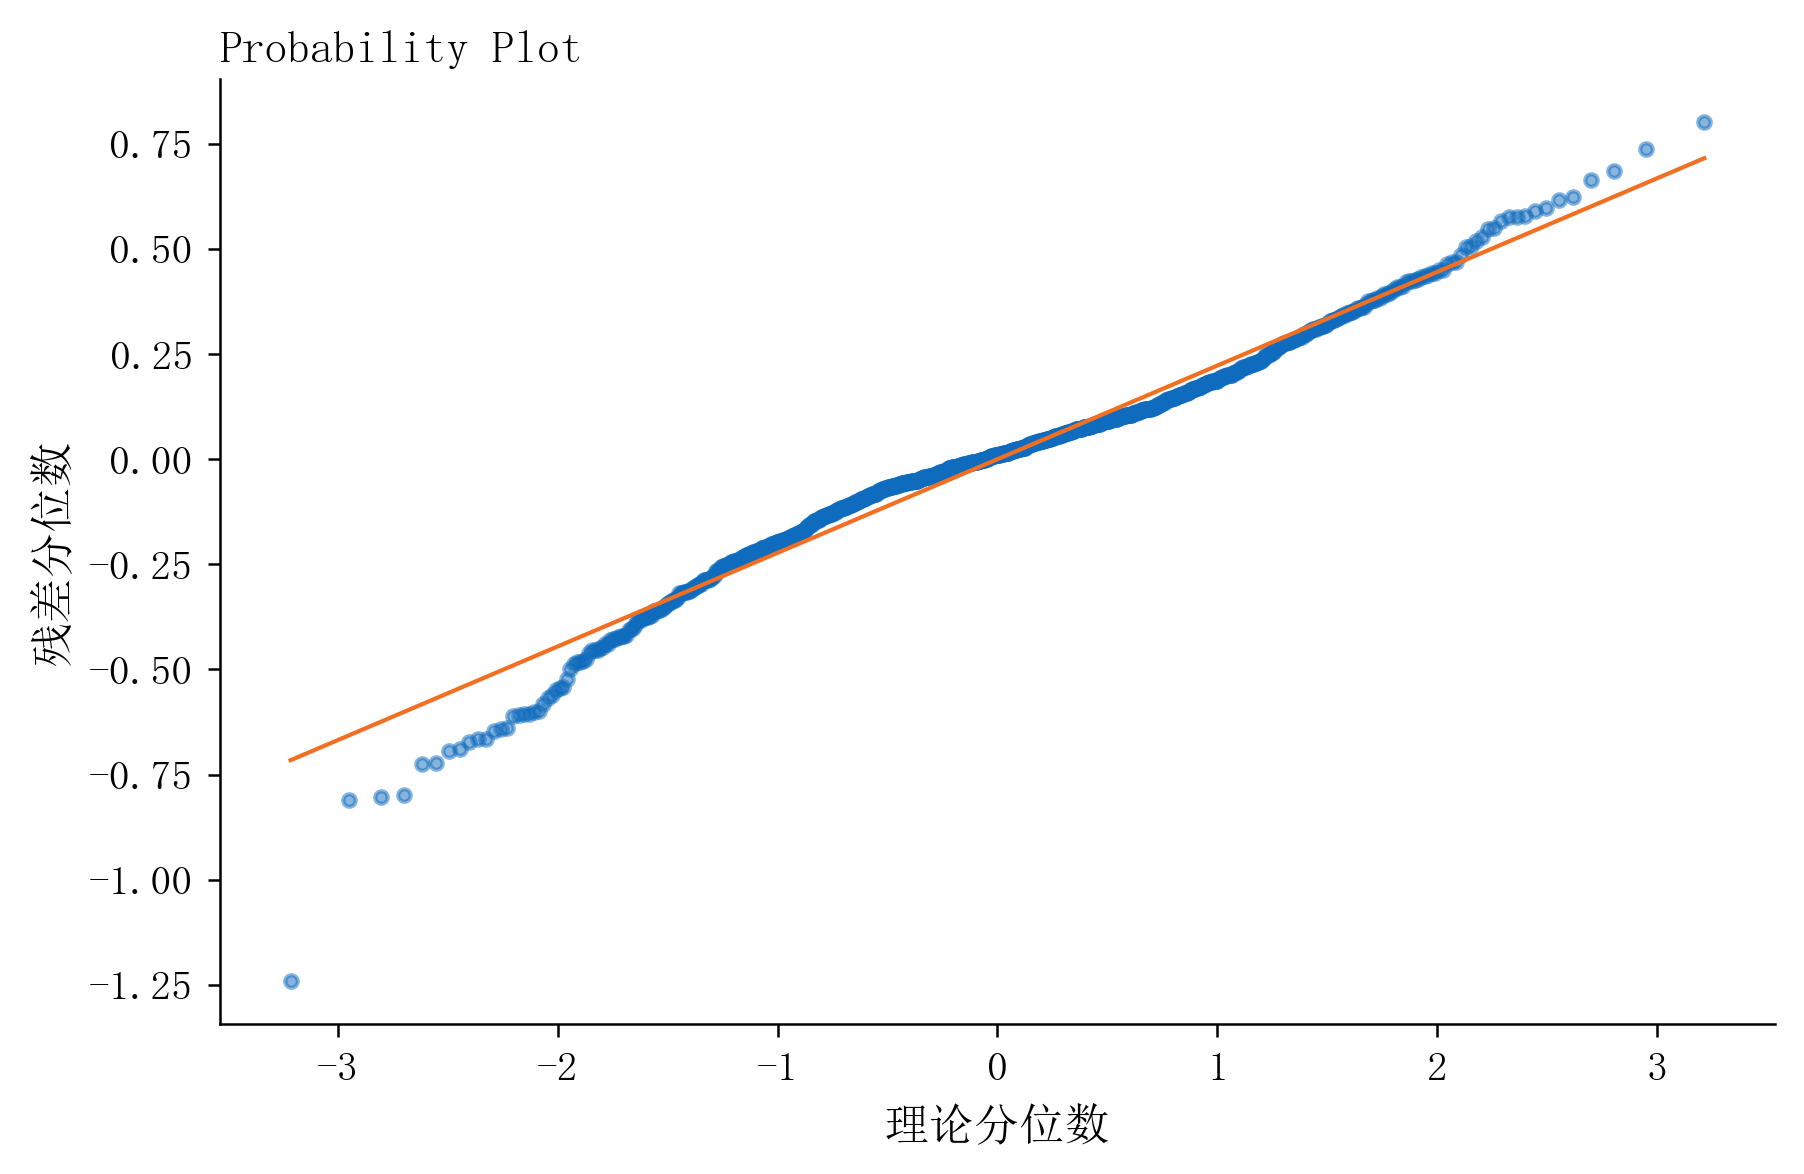
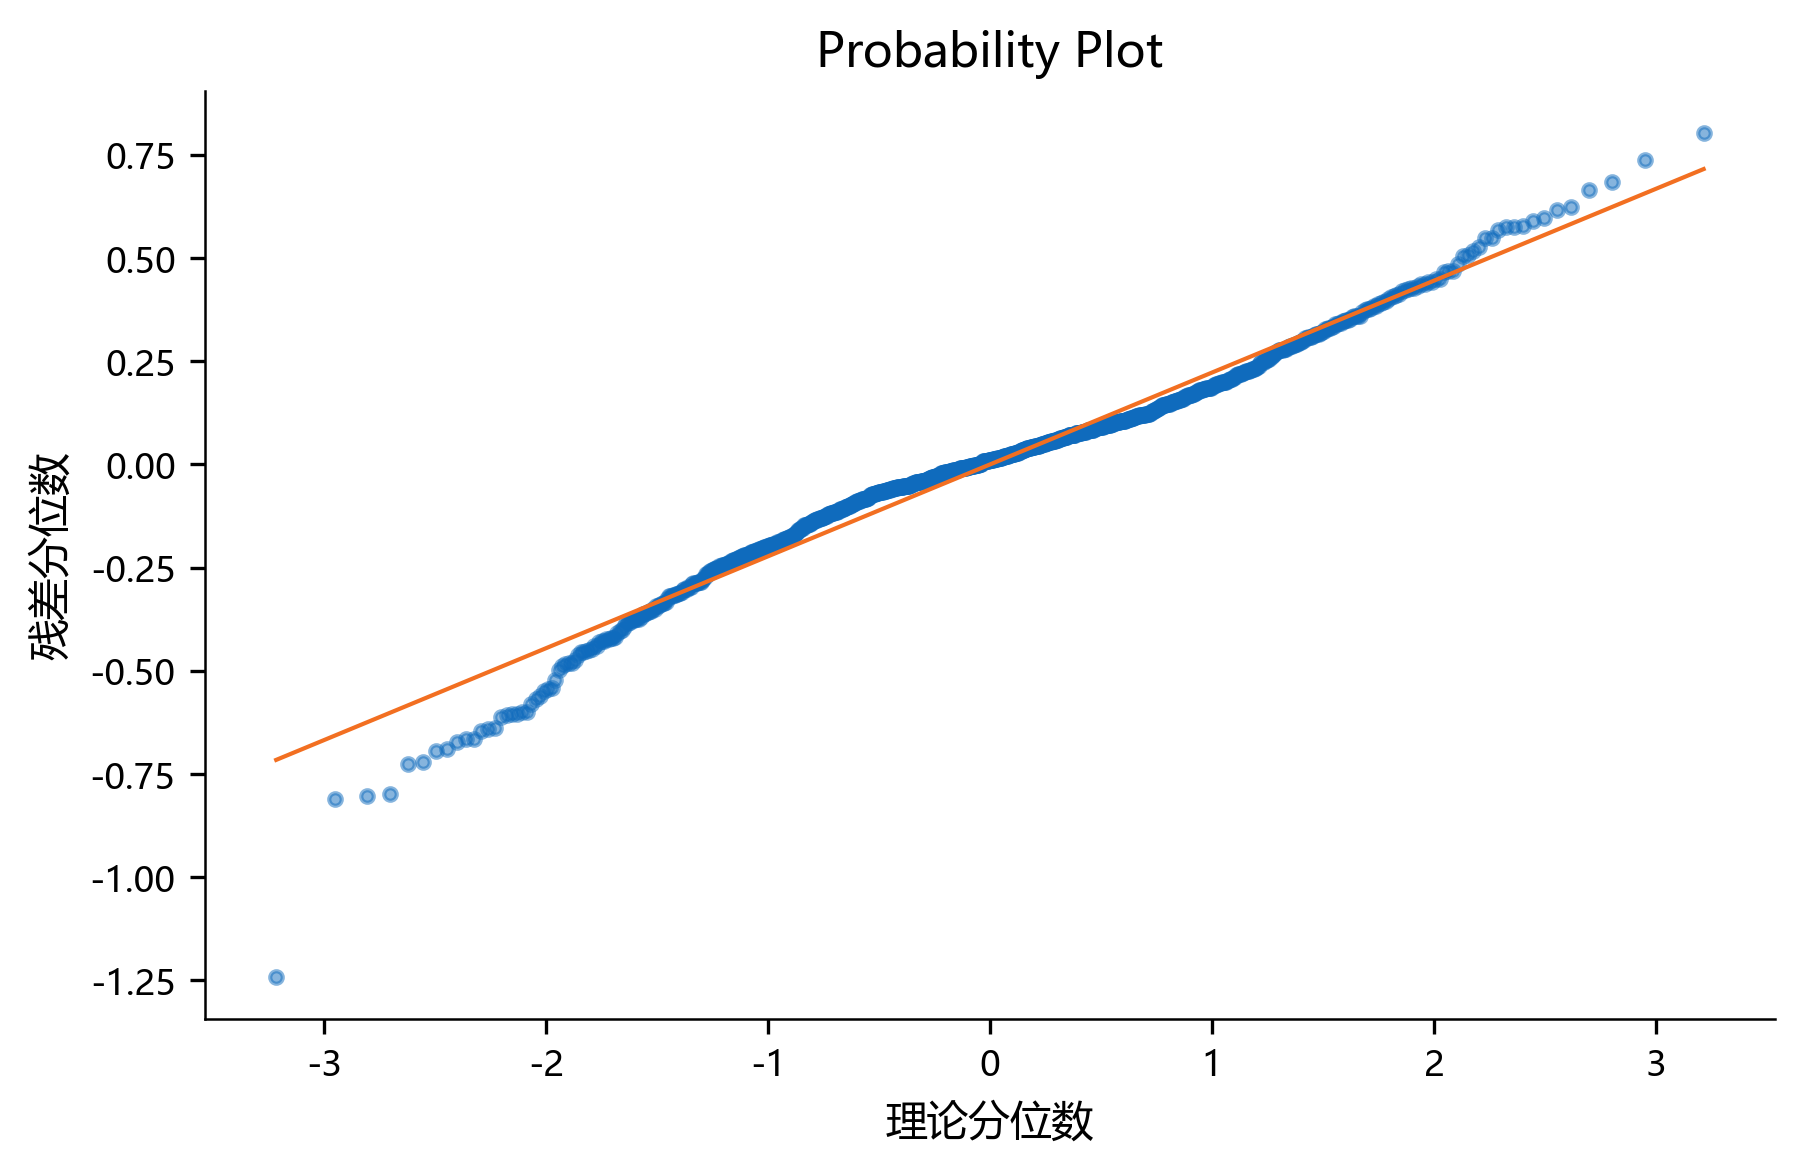
重新生成第一问图片

diff --git a/src/mycumcm2025c/q1_relationship.py b/src/mycumcm2025c/q1_relationship.py
@@ -5,9 +5,9 @@ from __future__ import annotations
 import argparse
 import json
 import math
-import sys
 from pathlib import Path
 
+import matplotlib as mpl
 import matplotlib.pyplot as plt
 import numpy as np
 import pandas as pd
@@ -40,6 +40,8 @@ CONTROLS = [
     "filtered_ratio",
     "log_raw_reads",
 ]
+
+PLOT_COLORS = ["#0F6BBD", "#F26F21", "#9ECAE1", "#083C5F", "#7F8C8D"]
 
 CONTROL_TERMS = " + ".join([f"{name}_z" for name in CONTROLS] + ["assisted_conception"])
 WEEK_SPLINE = "cr(gestational_weeks, df=4, constraints='center')"
@@ -204,17 +206,39 @@ def key_prediction_table(grid: pd.DataFrame) -> pd.DataFrame:
     return pd.DataFrame(rows)
 
 
-def _setup_plot_style(project_root: Path) -> list[str]:
-    skill_scripts = project_root / ".agents/skills/cumcm-step-review/scripts"
-    sys.path.insert(0, str(skill_scripts))
-    from plot_style import JOURNAL_PALETTES, apply_publication_style
+def configure_plot_style() -> list[str]:
+    """Apply a self-contained publication style without external skill files."""
+    mpl.rcParams.update(
+        {
+            "font.family": "sans-serif",
+            "font.sans-serif": [
+                "Noto Sans CJK SC",
+                "Source Han Sans SC",
+                "Microsoft YaHei",
+                "SimHei",
+                "SimSun",
+                "DejaVu Sans",
+            ],
+            "axes.unicode_minus": False,
+            "font.size": 9.5,
+            "axes.labelsize": 10.0,
+            "xtick.labelsize": 8.5,
+            "ytick.labelsize": 8.5,
+            "legend.fontsize": 8.5,
+            "axes.linewidth": 0.6,
+            "lines.linewidth": 1.0,
+            "lines.markersize": 4.0,
+            "axes.spines.top": False,
+            "axes.spines.right": False,
+            "figure.constrained_layout.use": True,
+            "savefig.dpi": 300,
+        }
+    )
+    return PLOT_COLORS
 
-    apply_publication_style(journal="nature", lang="zh")
-    return JOURNAL_PALETTES["nature"]["main"]
 
-
-def create_figures(events: pd.DataFrame, grid: pd.DataFrame, result: object, output_dir: Path, project_root: Path) -> None:
-    colors = _setup_plot_style(project_root)
+def create_figures(events: pd.DataFrame, grid: pd.DataFrame, result: object, output_dir: Path) -> None:
+    colors = configure_plot_style()
     output_dir.mkdir(parents=True, exist_ok=True)
 
     fig, ax = plt.subplots(figsize=(5.9, 3.8))
@@ -235,11 +259,14 @@ def create_figures(events: pd.DataFrame, grid: pd.DataFrame, result: object, out
     labels = ["Y浓度", "孕周", "BMI", "年龄", "GC", "比对率", "重复率", "过滤率"]
     corr = events[corr_columns].corr(method="spearman")
     fig, ax = plt.subplots(figsize=(5.9, 4.9))
-    image = ax.imshow(corr, vmin=-1, vmax=1, cmap="RdBu_r")
+    upper_triangle = np.triu(np.ones_like(corr, dtype=bool), k=0)
+    masked_corr = np.ma.array(corr.to_numpy(), mask=upper_triangle)
+    off_diagonal_limit = float(np.abs(corr.to_numpy()[~np.eye(len(corr), dtype=bool)]).max())
+    image = ax.imshow(masked_corr, vmin=-off_diagonal_limit, vmax=off_diagonal_limit)
     ax.set_xticks(range(len(labels)), labels, rotation=45, ha="right")
     ax.set_yticks(range(len(labels)), labels)
     for i in range(len(labels)):
-        for j in range(len(labels)):
+        for j in range(i):
             ax.text(j, i, f"{corr.iloc[i, j]:.2f}", ha="center", va="center", fontsize=7.5)
     fig.colorbar(image, ax=ax, label="Spearman 相关系数")
     fig.savefig(output_dir / "raw_q1_correlation_heatmap.png", dpi=300, bbox_inches="tight")
@@ -297,24 +324,31 @@ def create_figures(events: pd.DataFrame, grid: pd.DataFrame, result: object, out
     plt.close(fig)
 
 
-def create_significance_figure(comparisons: dict[str, dict[str, float]], output_dir: Path, project_root: Path) -> None:
-    colors = _setup_plot_style(project_root)
+def create_significance_figure(comparisons: dict[str, dict[str, float]], output_dir: Path) -> None:
+    colors = configure_plot_style()
     labels = ["孕周", "BMI", "孕周×BMI"]
     keys = ["overall_week", "bmi_nonlinearity", "week_bmi_interaction"]
     values = [-math.log10(max(comparisons[key]["p_value"], 1e-300)) for key in keys]
+    display_values = np.minimum(values, 12.0)
     fig, ax = plt.subplots(figsize=(5.9, 3.6))
-    bars = ax.barh(labels, values, color=[colors[0], colors[1], colors[4]])
+    positions = np.arange(len(labels))
+    ax.hlines(positions, 0, display_values, color="#C7CDD4", linewidth=1.2)
+    ax.scatter(display_values, positions, color=[colors[0], colors[1], colors[4]], s=34, zorder=3)
     ax.axvline(-math.log10(0.05), color="#555555", linestyle="--", linewidth=0.9)
+    ax.set_yticks(positions, labels)
     ax.set(xlabel="-log10(P)", ylabel="联合检验项")
-    for bar, key in zip(bars, keys):
+    for position, value, key in zip(positions, display_values, keys):
         p_value = comparisons[key]["p_value"]
         text = f"P={p_value:.3g}" if p_value >= 0.001 else "P<0.001"
-        ax.text(bar.get_width() + 0.5, bar.get_y() + bar.get_height() / 2, text, va="center", fontsize=8.5)
+        if p_value >= 0.05:
+            ax.text(value - 0.15, position, text, ha="right", va="center", fontsize=8.5)
+        else:
+            ax.text(value + 0.5, position, text, va="center", fontsize=8.5)
     fig.savefig(output_dir / "result_q1_joint_significance.png", dpi=300, bbox_inches="tight")
     plt.close(fig)
 
 
-def run(input_path: Path, results_dir: Path, figures_dir: Path, project_root: Path) -> dict[str, object]:
+def run(input_path: Path, results_dir: Path, figures_dir: Path) -> dict[str, object]:
     records = pd.read_csv(input_path)
     events = aggregate_sampling_events(records)
     results_dir.mkdir(parents=True, exist_ok=True)
@@ -343,8 +377,8 @@ def run(input_path: Path, results_dir: Path, figures_dir: Path, project_root: Pa
     grid = prediction_grid(events, main)
     grid.to_csv(results_dir / "q1_effect_curves.csv", index=False)
     key_prediction_table(grid).to_csv(results_dir / "q1_key_predictions.csv", index=False)
-    create_figures(events, grid, main, figures_dir, project_root)
-    create_significance_figure(comparisons, figures_dir, project_root)
+    create_figures(events, grid, main, figures_dir)
+    create_significance_figure(comparisons, figures_dir)
 
     fixed_prediction = np.asarray(main.model.exog) @ main.fe_params.to_numpy()
     var_fixed = float(np.var(fixed_prediction, ddof=1))
@@ -376,8 +410,7 @@ def main() -> None:
     parser.add_argument("--results-dir", type=Path, default=Path("results/q1"))
     parser.add_argument("--figures-dir", type=Path, default=Path("figures"))
     args = parser.parse_args()
-    project_root = Path(__file__).resolve().parents[2]
-    summary = run(args.input, args.results_dir, args.figures_dir, project_root)
+    summary = run(args.input, args.results_dir, args.figures_dir)
     print(json.dumps(summary, ensure_ascii=False, indent=2))
 
 

diff --git a/论文草稿.md b/论文草稿.md
@@ -174,7 +174,7 @@ $$
 
 图 4 孕周、BMI 及其交互项的联合显著性
 
-图 4 以虚线标示 $P=0.05$ 对应阈值。孕周效应的证据最强，BMI 效应亦超过显著性阈值，而交互项未达到阈值，与 AIC 的模型选择结果一致。需要注意，样条效应应作为一个整体检验，不能根据某个基函数系数的单独 $P$ 值判断 BMI 是否显著。
+图 4 以虚线标示 $P=0.05$ 对应阈值；为避免孕周的极小 $P$ 值压缩其余点的显示空间，横轴在 12 处截断，文字标注仍保留真实显著性量级。孕周效应的证据最强，BMI 效应亦超过显著性阈值，而交互项未达到阈值，与 AIC 的模型选择结果一致。需要注意，样条效应应作为一个整体检验，不能根据某个基函数系数的单独 $P$ 值判断 BMI 是否显著。
 
 其他指标的参数估计见表 3。连续变量系数均对应自变量增加 1 个标准差时 Logit 尺度上的变化。
 
